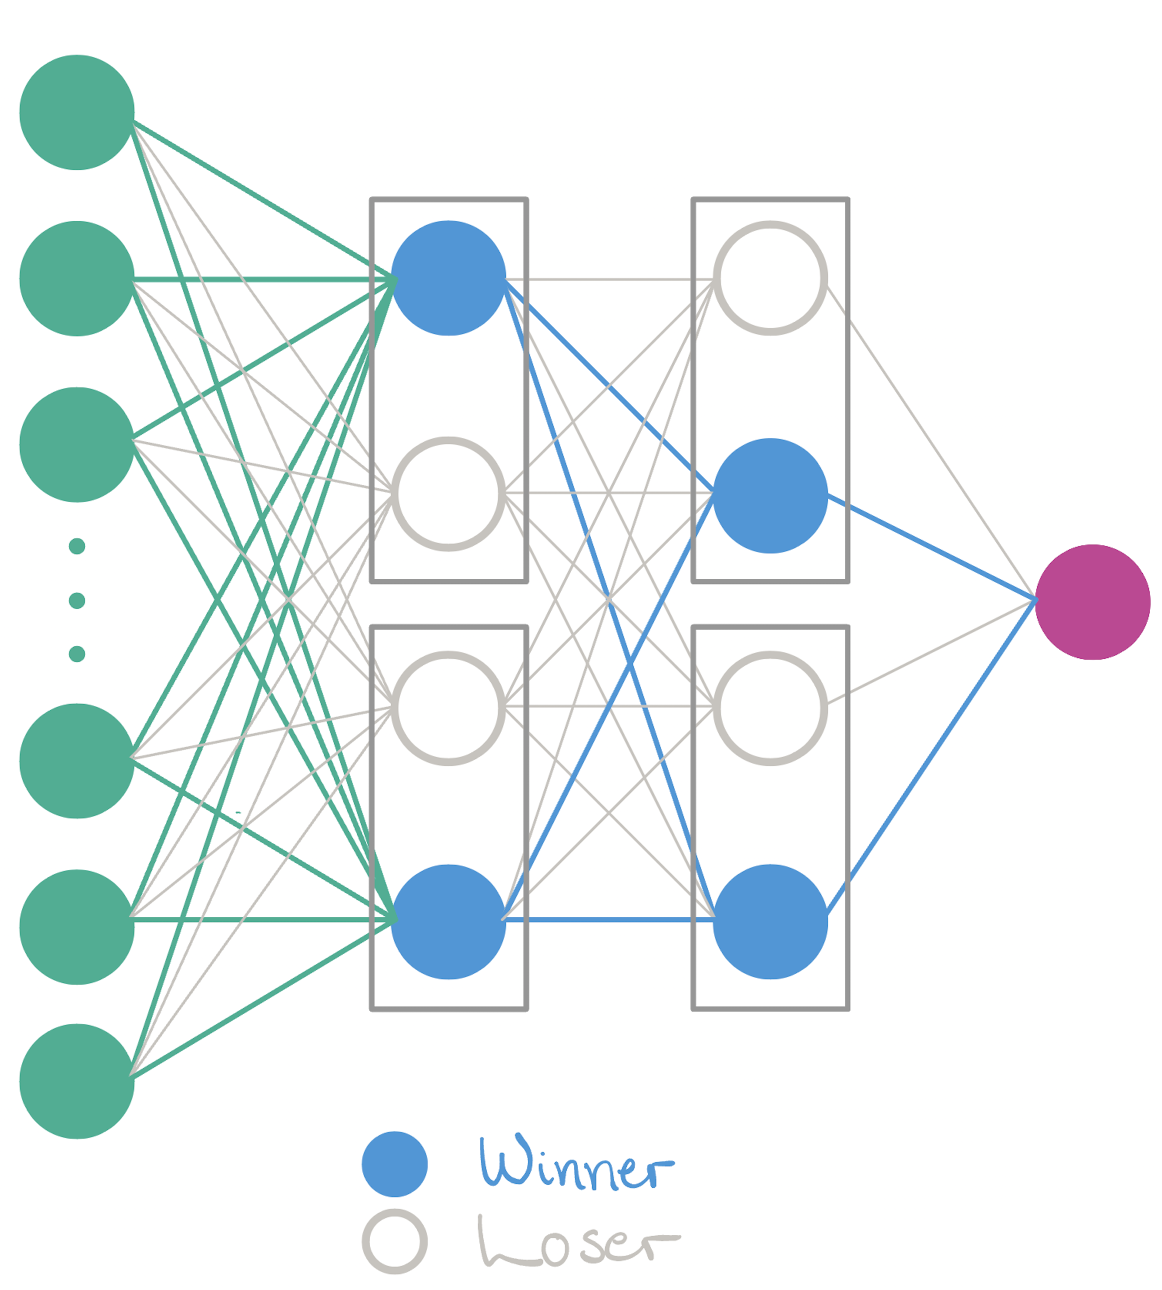
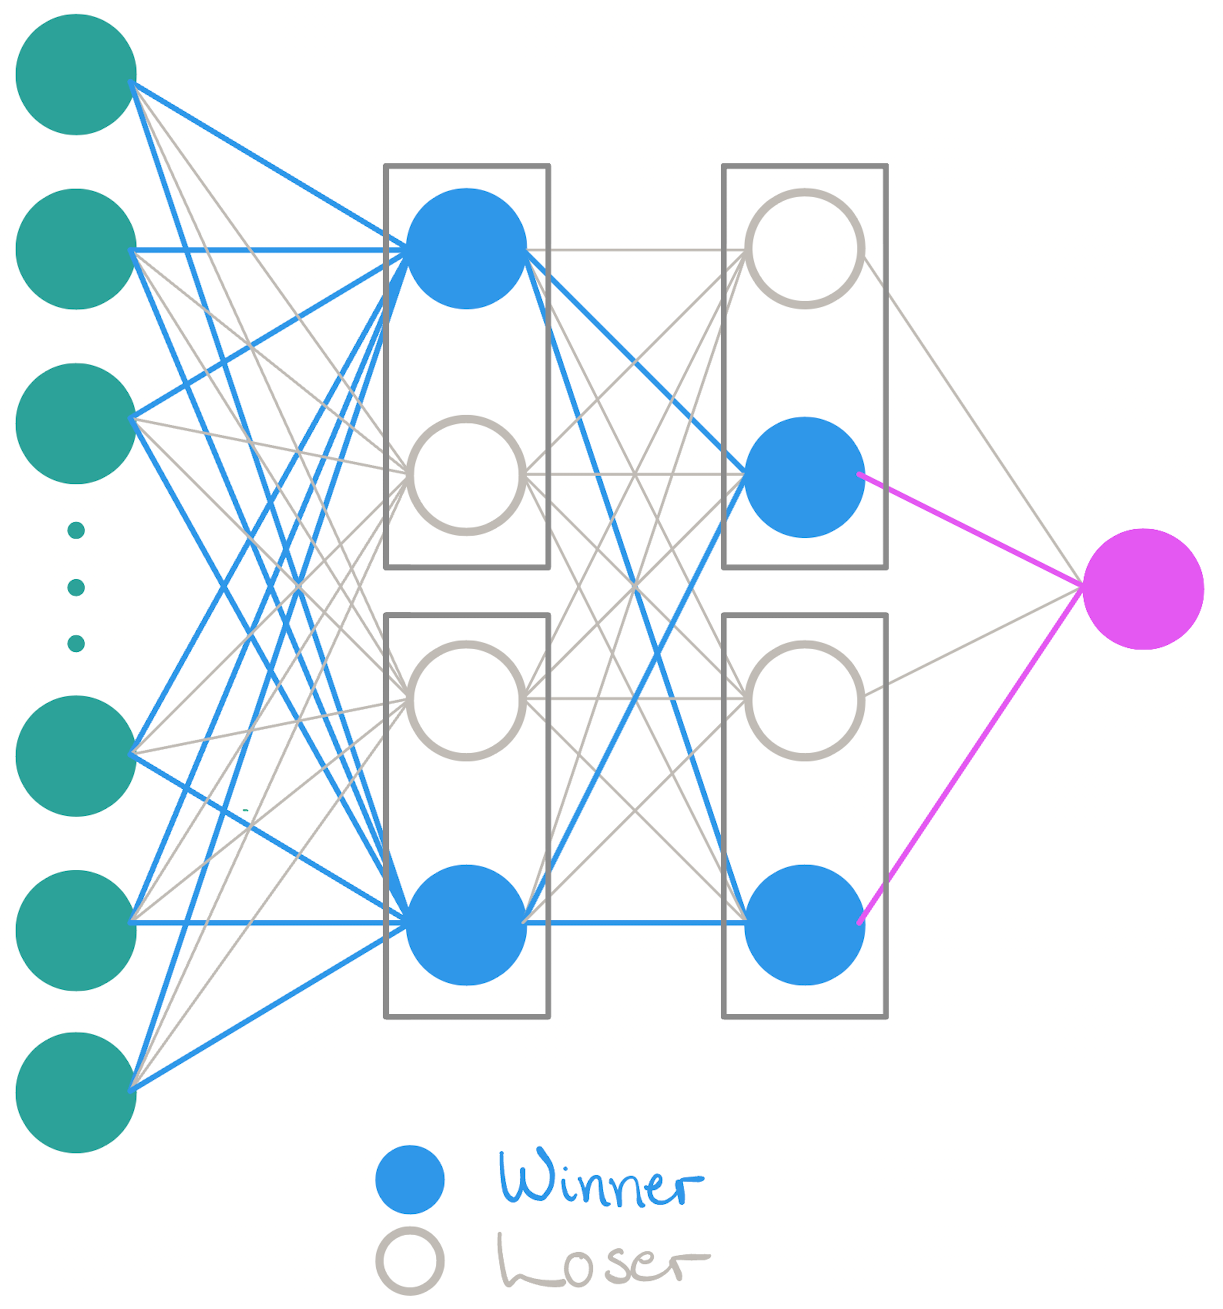
Explaining MO is hard:( Added some sections, data splitting and figures

diff --git a/Project3/tex/sections/theory.tex b/Project3/tex/sections/theory.tex
@@ -56,19 +56,56 @@ We cite our sources like this~\citep{Project1}.
 \subsection{Neural Networks}
     First, it will be wise to take a minute to recap some of the details of how a \textit{feed-forward nerual network} (FFNN) is built and trained from~\cite{Project2}. They are made up of sequential \textit{layers} taking in the input from the previous layer and passing it on to the next one. There will always be an input layer, taking in the features $x$ producing some observation $y$, and an output layer transforming the input from the second to last layer into an appropriate output. In classification problems, the outputs will usually be probabilities between $0$ and $1$ for the input to produce an output in a given category. In regression, the output layer usually transforms the output to be a single number $\tilde{y}$ for the predicted value.
 
-    When passing the output from one layer to the next, a linear transformation is done. Denoting the output vector from layer $\ell$ as $\vec{a}^\ell$, the transformation produces a \textit{response} $\vec{z}^{\ell} = W^\ell \vec{a}^{\ell-1} + \vec{b}^\ell$, where $W^\ell$ is a weight matrix, and $\vec{b}^\ell$ is called the bias. The response vector is then passed through an activation function (which is generally non-linear) to produce the \textit{activation} $\vec{a}^\ell = f(\vec{z}^\ell)$.
+    When passing the output from one layer as input to the next, a linear transformation is done. Denoting the output vector from layer $\ell$ as $\vec{a}^\ell$, the transformation produces a \textit{response} $\vec{z}^{\ell} = W^\ell \vec{a}^{\ell-1} + \vec{b}^\ell$, where $W^\ell$ is a weight matrix, and $\vec{b}^\ell$ is called the bias. The response vector is then passed through an activation function (which is generally non-linear) to produce the \textit{activation} $\vec{a}^\ell = f(\vec{z}^\ell)$.
+
+\subsection{Neurological Background and Competing Neurons}
+    The first artificial neural networks were inspired by biological neurons (cells mainly located in the brain); artificial nodes represent the neurons and their activation, the weights represent the synapses (connections between neurons), and biases address the threshold for activation of each neuron/node~\citep{Project2}. Since then, the development of neurobiologically inspired artificial intelligence has only increased and many other algorithms mimicking mechanisms of the brain have been employed to enhance machine learning performance. An up-and-coming and interesting field of research is the implementation of biological competative mechanisms. 
+    
+    First some important terms. Biological neurons are often considered to be either activated or not activated; a binary state of either on or off. Neurons are activated by receiving signals from sensory receptors or other activated neurons. When an activated neuron passes on its signal to another neuron, that signal can be either \textit{excitatory}, nudging the second neuron towards activation, or \textit{inhibitory}, reducing the chances of activation. \comment{should perhaps have a source} A series of activated neurons can be considered a pathway created in the brain, and there exists a consensus that information in the brain is represented, not by the signal within a cell (which is very similar for all cells and therefore convey little information), but rather through the signal's pathway between cells~\citep{Chen}\comment{cite should be book instead}. It is hypothesised that some of these pathways arise through competition between adjacent neurons. \comment{source plis, perhaps Self-organized formation of topologically correct feature maps}
+    
+    \subsubsection{Lateral Inhibition}
+
+        An example of competative mechanisms that are present in neurobiological systems is a phenomenon referred to as \textit{lateral inhibition}. It exhibits the competative selectivity between neurons and neuronal pathways. This is assumed to enhance the sense of contrast and is present especially in sensory procedures. \comment{the last sentence is supposed to be a frampek} The mechanism behind lateral inhibition is that the neurons receiving the most sensory input inhibit the activity of the adjacent neurons, making themselves the "winners" and the nearby neurons the "losers". For example, when neurons receive input from receptors of some external stimuli, the neurons connected to the most stimulated receptors will inhibit the nearby neurons connected to less stimulated receptors, making them less likely to be activated. This will lead to the outer part of the stimulus being toned down and the central stimulus appearing stronger in contrast. 
+        \comment{Need some source on the mechanism} 
+        
+        It is hypothesized that between the competing neurons the inhibition occurs through inhibitory interneurons connecting the two neurons together.
+        
+
+    \subsubsection{Function}
+        \comment{Present the unanswered questions. Why is this important in the brain? Implicit: what can we expect from our nns (Next section)}
+        As the previous section states, the competative mechanism lateral inhibition correlates with the perception of contrasts. However, there are also other neurological and even higher-level cognitive functions which might be explained or at least modelled by competition within the brain.
+
+        As mentioned, in the brain information is conveyed through different patterns of neural activation in the form of neural pathways. An interesting question is how these neuronal pathways arise. One hypotesis is that the competition between neurons initially leads to various pathways which are enforced by placticity 
+        
+        The brain receives vastly different input at all times, and the mechanisms behind its ability to make distictions between these inputs are unknown. However, the \comment{almighty, hehe} hypothesis is that the answer lies in the neural activity. Supporting this hypothesis is the fact that variance in neural activty correlates with variance in input, suggesting some information is encoded here. In that case, if all neurons were to fire identically to all type of stimuli, no information would be encoded in the activity.
+
+        The immense amount of input, both external and internal, the brain receives at any given moment cannot be processed. Somehow the brain prioritises the input. One hypothesis is that the competition between neural pathway leads to only some of the information being processed; only the winning neural pathways are activated.  
+        
+        Higher-level cognitive functions. 
+
+
+    \subsubsection{Connect to ML/What can be expected from machine learning algorithms/ artificial neural networks mimicking biological competative mechanisms}
+        Visual perception. 
 
 \subsection{Local Winner-Takes-All (LWTA)}
-    \comment{Explain local learning and sparse pathways -\Anna}
-    The idea of LWTA algorithms is to implement local learning in the neural network, such that the entire network does not learn how to transform a given input, but it is rather outsourced to local parts of the network. In LWTA algorithms, sparse pathways learn during training, and these pathways are selected at inference time. The nodes in each layer are grouped into a number of groups $G$, and Winner Takes All is applied on the activation of each of these groups, only passing on the maximal output in the group.
+    The idea of LWTA algorithms is to implement \textit{local learning} in the neural network, meaning that the entire network does not learn how to transform a given input, but it is rather outsourced to local parts of the network. In LWTA algorithms, the nodes in each layer are grouped into a number of groups $G$, and Winner-Takes-All is applied on the activation of each of these groups, only passing on the maximal output in the group. This creates various neural pathways and these learn during training, and are selected at inference time. The hypothesis is that different pathways get trained on different features of the data and that a pathway will be activated given similar data as it is trained on, making the network more flexible/better at separating input (From maxout..). 
+
+    Two different LWTA algorithms will be employd in this report: maxout, where pathways are only formed posteriori; and channel-out, where they are also formed anteriori.
 
     \subsubsection{Maxout and Channel-Out}
-        \comment{Some introductory sentence establishing the excistence of the two algorithms. "There are mainly two algowithms classifying as LWTA; maxout, where pathways are only formed posteriori, and channel-out, where they are also formed anteriori." or something -\Anna}
-        The \textit{maxout} activation passes the input from the previous layer through the weight kernel and adds the bias as normal, but then only passes on the activation from the most active node in each group of the layer. Each group then has a common set of weight connections to the next layer in  the network.
+        The \textit{maxout} activation passes the input from the previous layer through the weight kernel and adds the bias as normal, but then only passes on the activation from the most active node in each group of the layer. Each group then has a common set of weight connections to the next layer in  the network.See \cref{the:fig:illustration_maxout} for illustration of a neural network with maxout actvation.
 
-        During back propagation in training, the weights of each group are trained according to the activation of the most active node. This can be seen from the gradient of the cost function in the direction of one of the weights of an inactive node: the learning is proportional to $\pd[w^{\ell}_{ij}]{C} \propto \pd[a^\ell_i]{C} = 0$, because any infinitesimal change in the activation would still result in no activation if $a_i$ was not already the maximum of the group.
+        During backpropagation in training, the weights of each group are trained according to the activation of the most active node. This can be seen from the gradient of the cost function in the direction of one of the weights of an inactive node: the learning is proportional to $\pd[w^{\ell}_{ij}]{C} \propto \pd[a^\ell_i]{C} = 0$, because any infinitesimal change in the activation would still result in no activation if $a_i$ was not already the maximum of the group. 
+        
+        The neural pathways created through this algorithm consist of weights and nodes (see \cref{the:fig:illustration_maxout} for an example of a pathway). The relevant nodes of a pathway are chosen based on which activation is largest within a group, and the input weights corresponding to that nodes are consequently chosen.  
+        
+        \begin{figure}[]
+            \centering
+            \includegraphics[width=\linewidth]{illustration_maxout.png}
+            \caption{Illustration of a neural network with maxout. }
+            \label[fig]{the:fig:illustration_maxout}
+        \end{figure}
 
-        \comment{comment on/specify the paths being made due to the weights of the previous layer. See that it is specified below, but I think we could do it here as well. Should be easier when illustrations are included -\Anna}
 
         % \begin{algorithm}
         %     \caption{Max Out activation}
@@ -87,35 +124,14 @@ We cite our sources like this~\citep{Project1}.
         \textit{Channel-out} makes a subtle, but meaningful, change to the maxout algorithm. Instead of every group having a common set of weight connections to the next layer, every node has its own set of weight connections. This results in not only local learning of the weights during backpropagation, but also leads to the activation winner choosing the set of weights that will be used in the next layer at inference time.
         Effectively, a channel-out layer works the same way as an ordinary dense layer with a linear activation function, but sets all the activations of the nodes that do not win their group to zero before passing them on to the next layer.
         Same as with maxout, only the weights of the active nodes are trained, but this also applies to the next layer, where only weights connected to the active nodes are trained. So the local learning goes both forwards and backwards from a channel-out layer, in contrast to just backwards in the case of maxout.
-
-    \subsection{Neurological Background}
-        \comment{General backoground}
-        The first artificial neural networks were inspired by biological neurons (cells mainly located in the brain); artificial nodes represent the neurons and their activation, the weights represent the synapses (connections between neurons), and biases address the threshold for activation of each neuron/node~\citep{Project2}. Since then, the development of neurobiologically inspired artificial intelligence has only increased and many other algorithms mimicking mechanisms of the brain have been employed to enhance machine learning performance. An up-and-coming and interesting field of research is the implementation of biological competative mechanisms. 
         
-        First some important terms. Biological neurons are often considered to be either activated or not activated; a binary state of either on or off. Neurons are activated by receiving signals from sensory receptors or other activated neurons. When an activated neuron passes on its signal to another neuron, that signal can be either \textit{excitatory}, nudging the second neuron towards activation, or \textit{inhibitory}, reducing the chances of activation. \comment{should perhaps have a source} A series of activated neurons can be considered a pathway created in the brain, and there exists a consensus that information in the brain is represented, not by the signal within a cell (which is very similar for all cells and therefore convey little information), but rather through the signal's pathway between cells~\citep{Chen}\comment{cite should be book instead}. It is hypothesised that some of these pathways arise through competition between adjacent neurons. \comment{source plis, perhaps Self-organized formation of topologically correct feature maps}
-        
-        \subsubsection{Lateral Inhibition}
-
-            An example of competative mechanisms that are present in neurobiological systems is a phenomenon referred to as \textit{lateral inhibition}. It exhibits the competative selectivity between neurons and neuronal pathways. This is assumed to enhance the sense of contrast and is present especially in sensory procedures. \comment{the last sentence is supposed to be a frampek} The mechanism behind lateral inhibition is that the neurons receiving the most sensory input inhibit the activity of the adjacent neurons, making themselves the "winners" and the nearby neurons the "losers". For example, when neurons receive input from receptors of some external stimuli, the neurons connected to the most stimulated receptors will inhibit the nearby neurons connected to less stimulated receptors, making them less likely to be activated. This will lead to the outer part of the stimulus being toned down and the central stimulus appearing stronger in contrast. 
-            \comment{Need some source on the mechanism} 
-            
-            It is hypothesized that between the competing neurons the inhibition occurs through inhibitory interneurons connecting the two neurons together.
-            
-
-        \subsubsection{Function}
-            \comment{Present the unanswered questions. Why is this important in the brain? Implicit: what can we expect from our nns (Next section)}
-            As the previous section states, the competative mechanism lateral inhibition correlates with perceiving contrasts. However, there are also other neurological and even higher-level cognitive functions which might be explained or at least modelled by competition within the brain.
-
-            As previously mentioned, in the brain information is conveyed through different patterns of neural activation in the form of neural pathways. An interesting question is how these neuronal pathways arise. One hypotesis is the 
-            
-            The brain receives vastly different input at all times, and the mechanisms behind its ability to make distictions between these inputs are unknown. However, the \comment{almighty, hehe} hypothesis is that the answer lies in the neural activity. Supporting this hypothesis is the fact that variance in neural activty correlates with variance in input, suggesting some information is encoded here. In that case, if all neurons were to fire identically to all type of stimuli, no information would be encoded in the activity.
-
-            The immense amount of input, both external and internal, the brain receives at any given moment cannot be processed. Somehow the brain prioritises the input. One hypothesis is that the competition between neural pathway leads to only some of the information being processed; only the winning neural pathways are activated.  
-            
-            Higher-level cognitive functions. 
+        \begin{figure}[]
+            \centering
+            \includegraphics[width=.8\linewidth]{illustration_channelout.png}
+            \caption{Illustration of a neural network with channel-out.}
+            \label[fig]{the:fig:illustration_channelout}
+        \end{figure}
 
 
-        \subsubsection{Connect to ML/What can be expected from machine learning algorithms/ artificial neural networks mimicking biological competative mechanisms}
-            Visual perception. 
+
     
-        

diff --git a/Project3/tex/sections/method.tex b/Project3/tex/sections/method.tex
@@ -23,8 +23,15 @@ We reference like this using \verb|cleveref|: \cref{int:fig:example_a}, \cref{th
 
     \subsubsection{Data Preparation}
         \comment{Describe preprocessing of data, i.e. scaling etc. -\Carl}
-        \comment{Data splitting figure \Anna}
-        When tuning the architecture, we split the training data into a tuning set and a validation set used for monitoring overfitting, implementing early stopping with $p=5$. We used a split of $\sfrac{3}{4}$.
+        \comment{Data splitting \Anna}
+        To train and evaluate our models we implemented the relevant data and and as in our previous projects we split it in training data ($\sfrac{5}{6}$ of the data) and testing data ($\sfrac{1}{6}$ of the data) \citep{Project1}\citep{Project2}. When tuning the architecture, we further split the training data into a tuning set and a validation set used for monitoring overfitting, implementing early stopping with $p=5$. We used a split of $\sfrac{3}{4}$. See \cref{the:fig:illustration_data} for illustration of the data splitting. 
+
+        \begin{figure}[]
+            \centering
+            \includegraphics[width=.9\linewidth]{illustration_data.png}
+            \caption{Illustration of data splitting.}
+            \label[fig]{the:fig:illustration_data}
+        \end{figure}
 
     \subsubsection{PCA}
         \comment{Could perhaps be part of data preparation \Anna}

diff --git a/Project3/tex/sections/discussion.tex b/Project3/tex/sections/discussion.tex
@@ -16,3 +16,5 @@ Discussion here, in present/past tense.
 \subsubsection{Only 49 hyperparameter points explored}
     Our motivation was not to explore all of the hyperparameter space, but rather explore some structures in the high performing models. (eg. structures: MO vs CO vs Dense, and how many layer)
     \comment{\Carl or \Anna}
+
+\subsubsection{PCA - did not choose the PCA-features}
